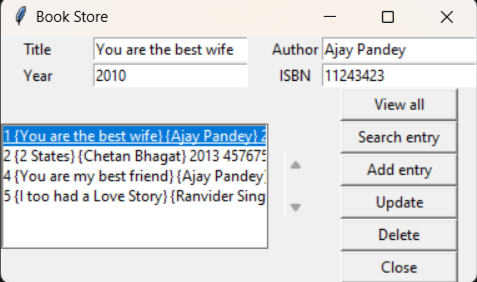
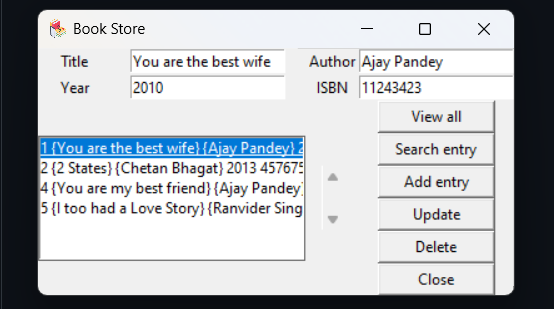
Screenshot added

diff --git a/Simple Calculator/calculator.py b/Simple Calculator/calculator.py
@@ -1,0 +1,122 @@
+from tkinter import *
+
+# -------------------FUNCTION FOR BUTTON PRESS----------------
+
+
+def button_pressed(num):
+    global text
+
+    text = text + str(num)
+    space.set(text)
+
+
+def clear():
+
+    global text
+    text = ""
+    space.set(text)
+
+
+def equal():
+
+    global text
+
+    try:
+        total = str(eval(text))
+        space.set(total)
+        text = total
+    except ZeroDivisionError:
+        space.set("arithmetic error")
+        text = ""
+    except SyntaxError:
+        space.set("syntax error")
+        text = ""
+
+
+# -------------------WINDOW CREATION---------------
+window = Tk()
+window.iconphoto(False, PhotoImage(file='calculator_icon.ico'))
+window.geometry("420x500")
+window.title("Calculator")
+
+# --------------------TEXT SPACE------------------
+text = ""
+
+space = StringVar()
+label = Label(window, textvariable=space,
+              font="Quicksand 35", width=13, bg='white')
+label.pack()
+
+frame = Frame(window)
+frame.pack()
+
+# ---------------------BUTTONS-------------------
+b1 = Button(frame, text=1, font=35, height=3, width=6,
+            command=lambda: button_pressed(1))
+b1.grid(row=0, column=0)
+
+b2 = Button(frame, text=2, font=35, height=3, width=6,
+            command=lambda: button_pressed(2))
+b2.grid(row=0, column=1, padx=8, pady=8)
+
+b3 = Button(frame, text=3, font=35, height=3, width=6,
+            command=lambda: button_pressed(3))
+b3.grid(row=0, column=2)
+
+b4 = Button(frame, text=4, font=35, height=3, width=6,
+            command=lambda: button_pressed(4))
+b4.grid(row=1, column=0)
+
+b5 = Button(frame, text=5, font=35, height=3, width=6,
+            command=lambda: button_pressed(5))
+b5.grid(row=1, column=1, padx=8)
+
+b6 = Button(frame, text=6, font=35, height=3, width=6,
+            command=lambda: button_pressed(6))
+b6.grid(row=1, column=2)
+
+b7 = Button(frame, text=7, font=35, height=3, width=6,
+            command=lambda: button_pressed(7))
+b7.grid(row=2, column=0)
+
+b8 = Button(frame, text=8, font=35, height=3, width=6,
+            command=lambda: button_pressed(8))
+b8.grid(row=2, column=1, padx=8, pady=8)
+
+b9 = Button(frame, text=9, font=35, height=3, width=6,
+            command=lambda: button_pressed(9))
+b9.grid(row=2, column=2)
+
+b0 = Button(frame, text=0, font=35, height=3, width=6,
+            command=lambda: button_pressed(0))
+b0.grid(row=3, column=0)
+
+plus = Button(frame, text='+', font=35, height=3, width=6,
+              command=lambda: button_pressed('+'))
+plus.grid(row=0, column=3, padx=8, pady=8)
+
+minus = Button(frame, text='-', font=35, height=3, width=6,
+               command=lambda: button_pressed('-'))
+minus.grid(row=1, column=3)
+
+mul = Button(frame, text='*', font=35, height=3, width=6,
+             command=lambda: button_pressed('*'))
+mul.grid(row=2, column=3)
+
+divide = Button(frame, text='/', font=35, height=3, width=6,
+                command=lambda: button_pressed('/'))
+divide.grid(row=3, column=3)
+
+equal = Button(frame, text='=', font=35, height=3, width=6, command=equal)
+equal.grid(row=3, column=2)
+
+dot = Button(frame, text='.', font=35, height=3, width=6,
+             command=lambda: button_pressed('.'))
+dot.grid(row=3, column=1)
+
+clear = Button(window, text='clear', font=50,
+               height=3, width=10, command=clear)
+clear.pack()
+
+
+window.mainloop()

diff --git a/Book Store/Frontend.py b/Book Store/Frontend.py
@@ -46,6 +46,7 @@ def update_command():
 # ----------------------WINDOW---------------------
 
 window = Tk()
+window.iconphoto(False, PhotoImage(file='icon.png'))
 window.wm_title("Book Store")   # Title of the window
 
 # --------------------LABELS--------------------
